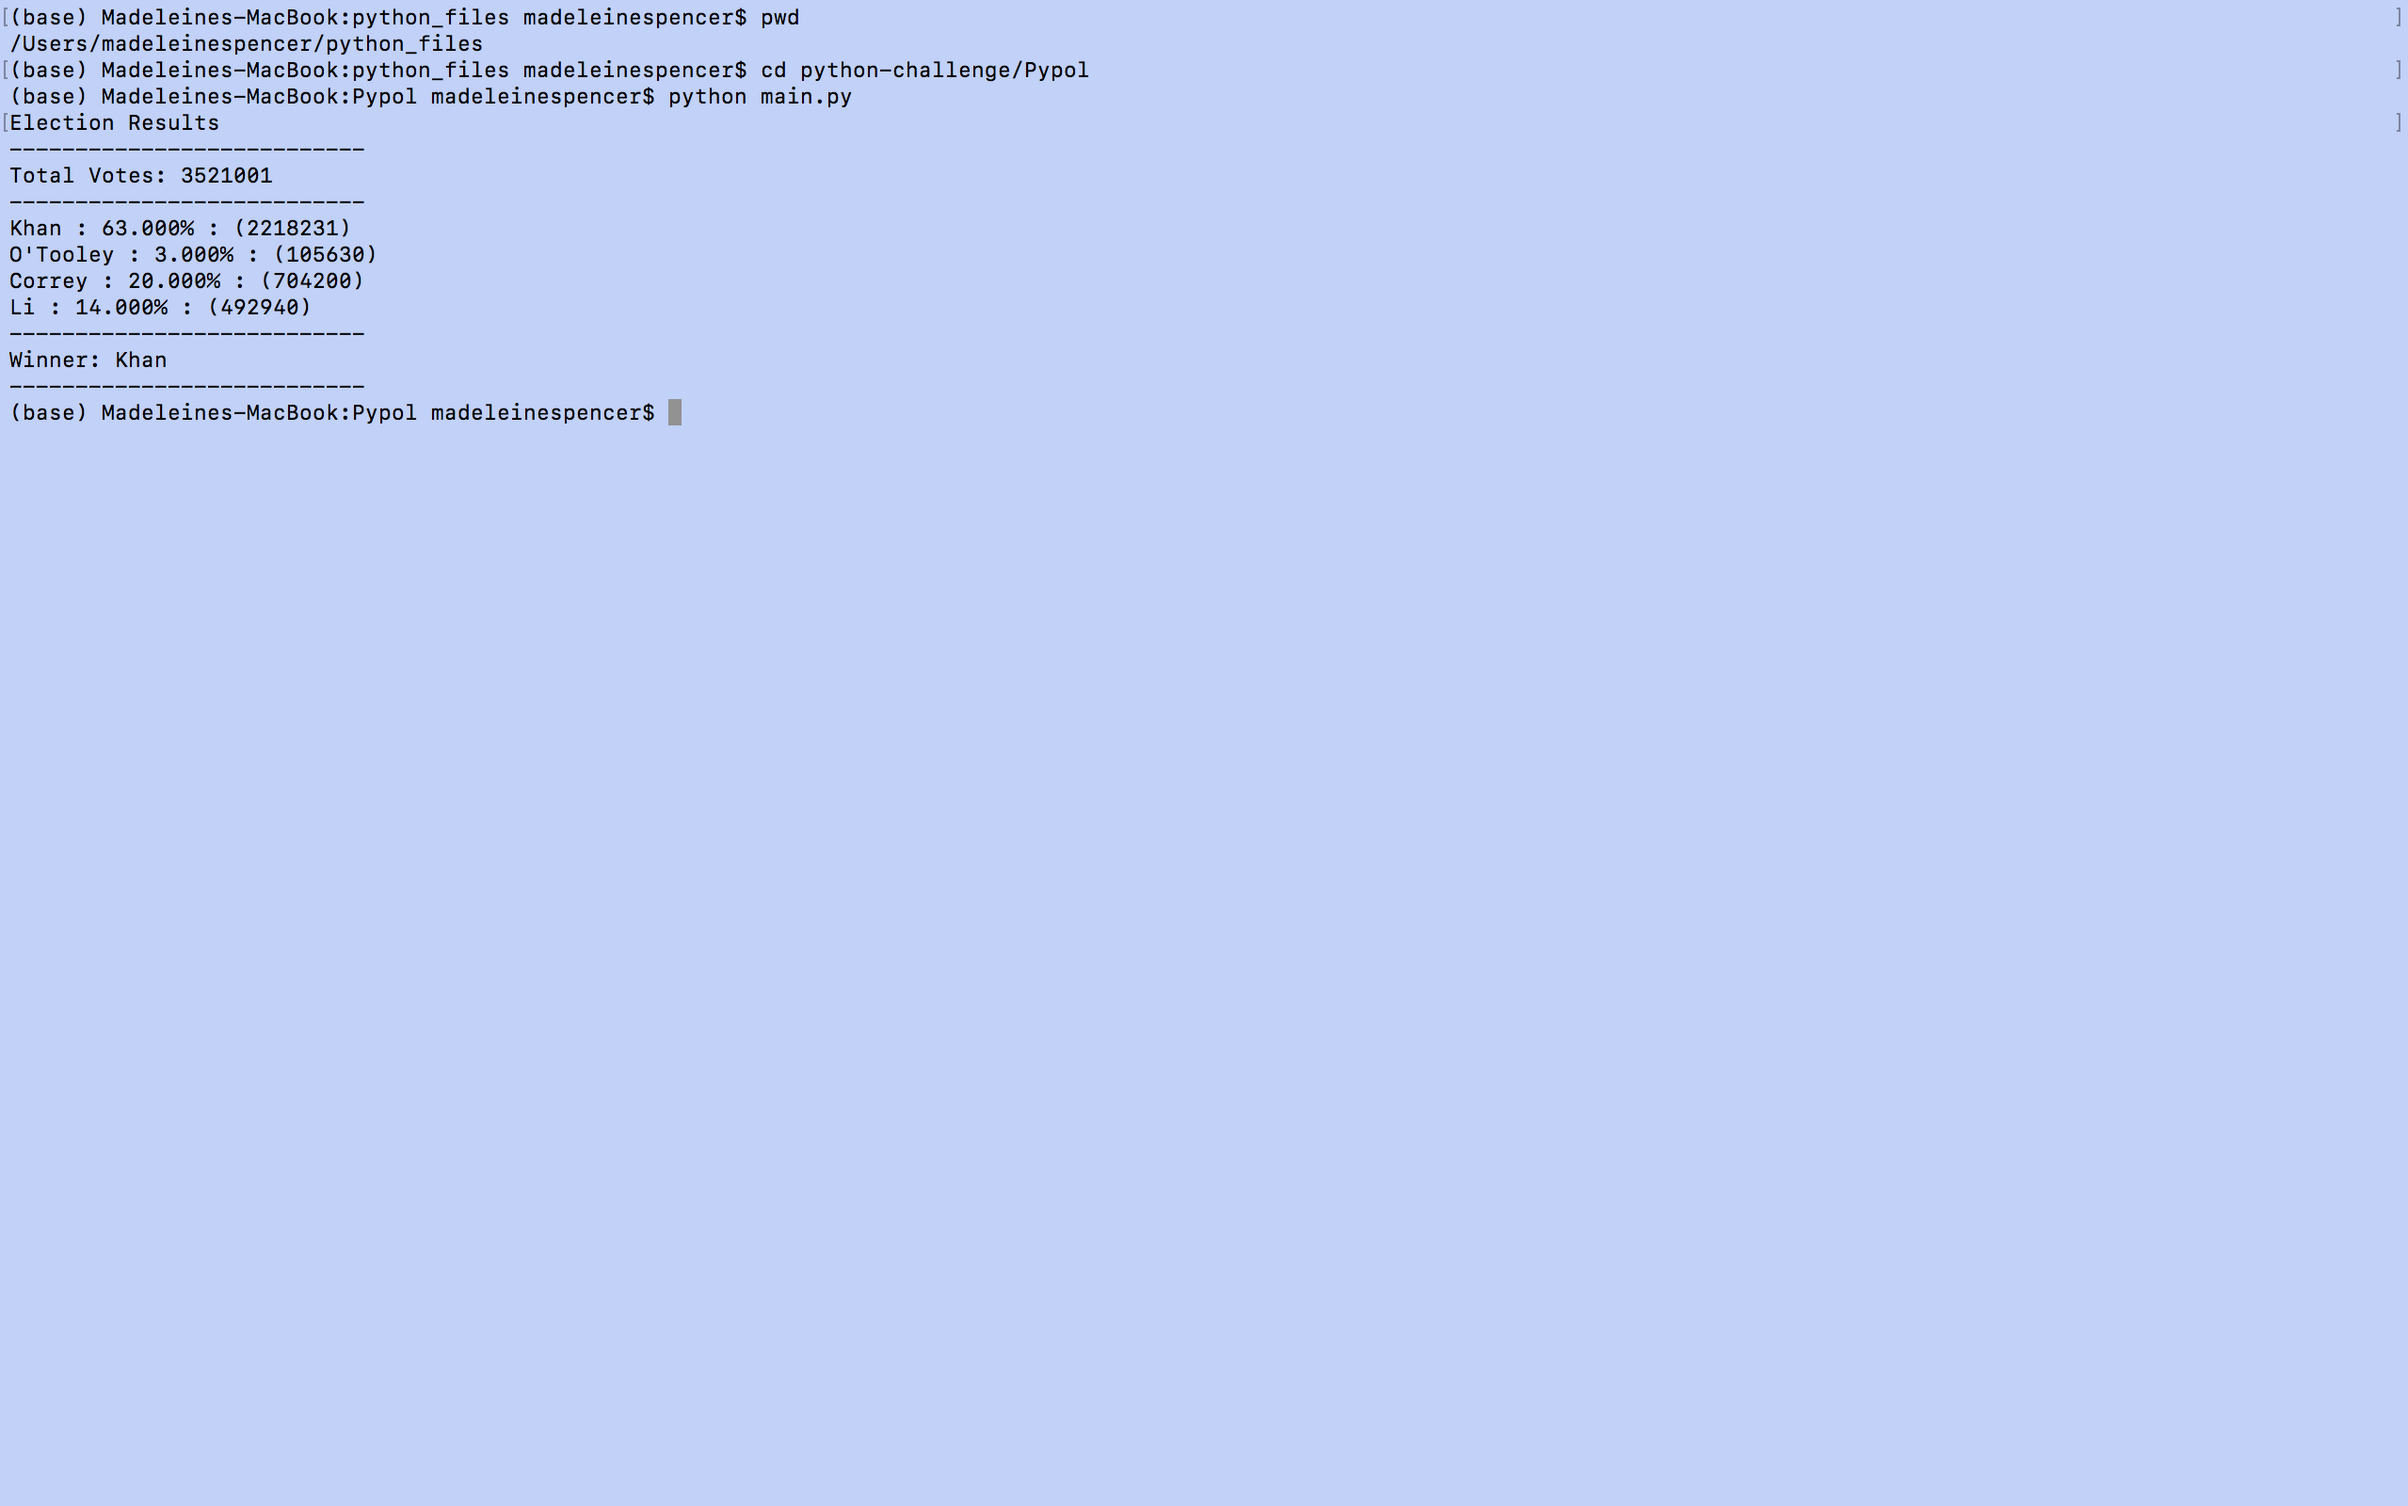
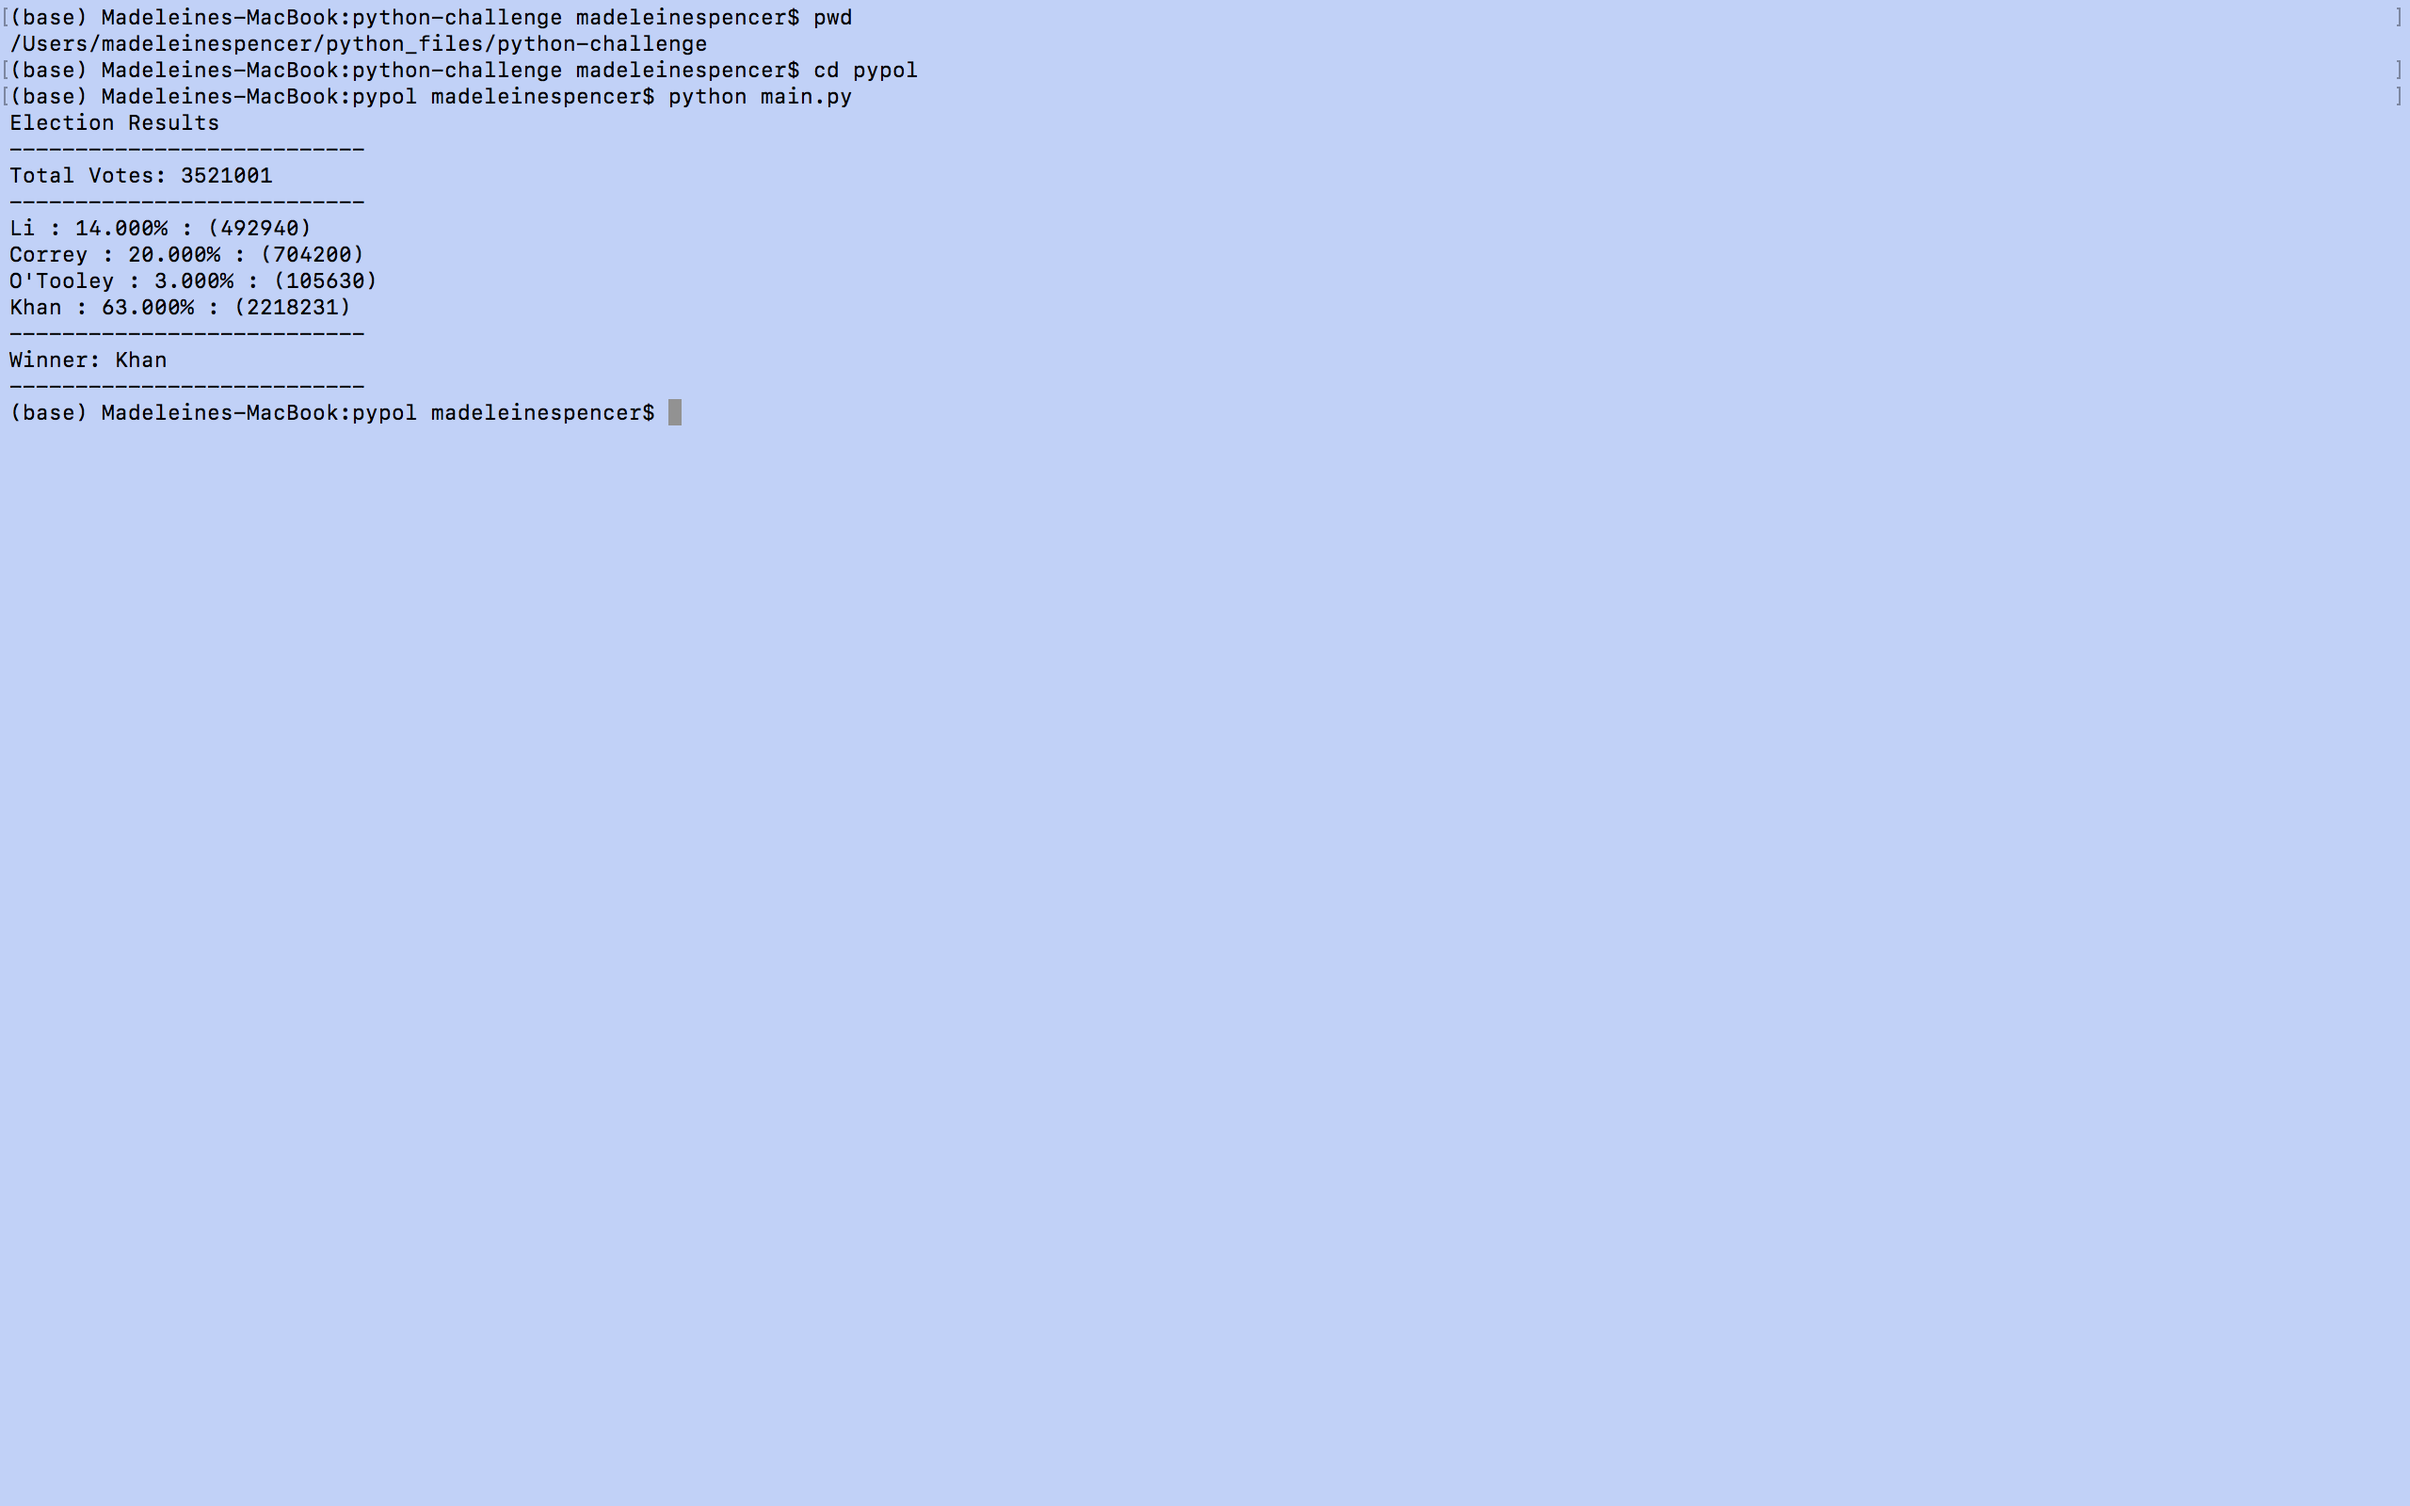
enumerated politician list

diff --git a/Pypol/main.py b/Pypol/main.py
@@ -5,15 +5,13 @@ import csv
 #Path to csv file
 filepath = os.path.join("Resources","02-Homework_03-Python_Instructions_PyPoll_Resources_election_data.csv")
 
-# Define the function and have it accept the 'pol_data' as its sole parameter
-
 #assign variables
 candidate_list=[]
 candidates=[]
 candidate_votes=[]
+candidate_percent=[]
 voters=[]
-unique_candidates:[]
-    # winner = max()
+unique_candidates=[]
     
 
 #open and read csv
@@ -37,22 +35,19 @@ with open(filepath) as csvfile:
     unique_candidates = list(set(candidate_list))
     #print(unique_candidates)
 
-    #calc votes and vote percentage for first candidate
-    Can1_votes = candidate_list.count(unique_candidates[0])
-    Can1_perc = Can1_votes/total_votes*100
-    #calc votes and vote percentage for second candidate
-    Can2_votes = candidate_list.count(unique_candidates[1])
-    Can2_perc = Can2_votes/total_votes*100
-    #calc votes and vote percentage for third candidate
-    Can3_votes = candidate_list.count(unique_candidates[2])
-    Can3_perc = Can3_votes/total_votes*100
-    #calc votes and vote percentage for third candidate
-    Can4_votes = candidate_list.count(unique_candidates[3])
-    Can4_perc = Can4_votes/total_votes*100
     
-    #build list with candidate votes to extract max votes (winner)
-    candidate_votes=[Can1_votes,Can2_votes,Can3_votes,Can4_votes]
-    #calc max votes
+    #find total votes for each candidate
+    for politicians in unique_candidates:
+        can_votes= candidate_list.count(politicians)
+        candidate_votes.append(can_votes)
+    #print(candidate_votes)
+
+    #find % votes for each candidate
+    for politicians in unique_candidates:
+        can_perc= candidate_list.count(politicians)/total_votes*100
+        candidate_percent.append(can_perc)
+    #print(candidate_percent)
+    
     max_candidate_votes=max(candidate_votes)
     #print(max_candidate_votes)
     #find index for max votes
@@ -68,15 +63,16 @@ print("Election Results")
 print("---------------------------")
 print(f"Total Votes: {total_votes}")
 print("---------------------------")
-print(f"{unique_candidates[0]} : {Can1_perc:0.3f}% : ({Can1_votes})")
-print(f"{unique_candidates[1]} : {Can2_perc:0.3f}% : ({Can2_votes})")
-print(f"{unique_candidates[2]} : {Can3_perc:0.3f}% : ({Can3_votes})")
-print(f"{unique_candidates[3]} : {Can4_perc:0.3f}% : ({Can4_votes})")
+for i, politicians in enumerate(unique_candidates):
+    print(f"{politicians} : {candidate_percent[i]:0.3f}% : ({candidate_votes[i]})")
 print("---------------------------")
 print(f"Winner: {winner}")
 print("---------------------------")
 
 #print to text file
 text_file = open("Analysis/Output.txt", "w")
-text_file.writelines(f"Election Results\n--------------------------- \nTotal Votes: {total_votes} \n---------------------------\n{unique_candidates[0]} : {Can1_perc:0.3f}% : ({Can1_votes}) \n{unique_candidates[1]} : {Can2_perc:0.3f}% : ({Can2_votes}) \n{unique_candidates[2]} : {Can3_perc:0.3f}% : ({Can3_votes}) \n{unique_candidates[3]} : {Can4_perc:0.3f}% : ({Can4_votes}) \n--------------------------- \nWinner: {winner} \n---------------------------")
+text_file.writelines(f"Election Results\n--------------------------- \nTotal Votes: {total_votes} \n---------------------------\n")
+for i, politicians in enumerate(unique_candidates):
+    text_file.writelines(f"{politicians} : {candidate_percent[i]:0.3f}% : ({candidate_votes[i]})\n")
+text_file.writelines(f"--------------------------- \nWinner: {winner} \n---------------------------")
 text_file.close()
